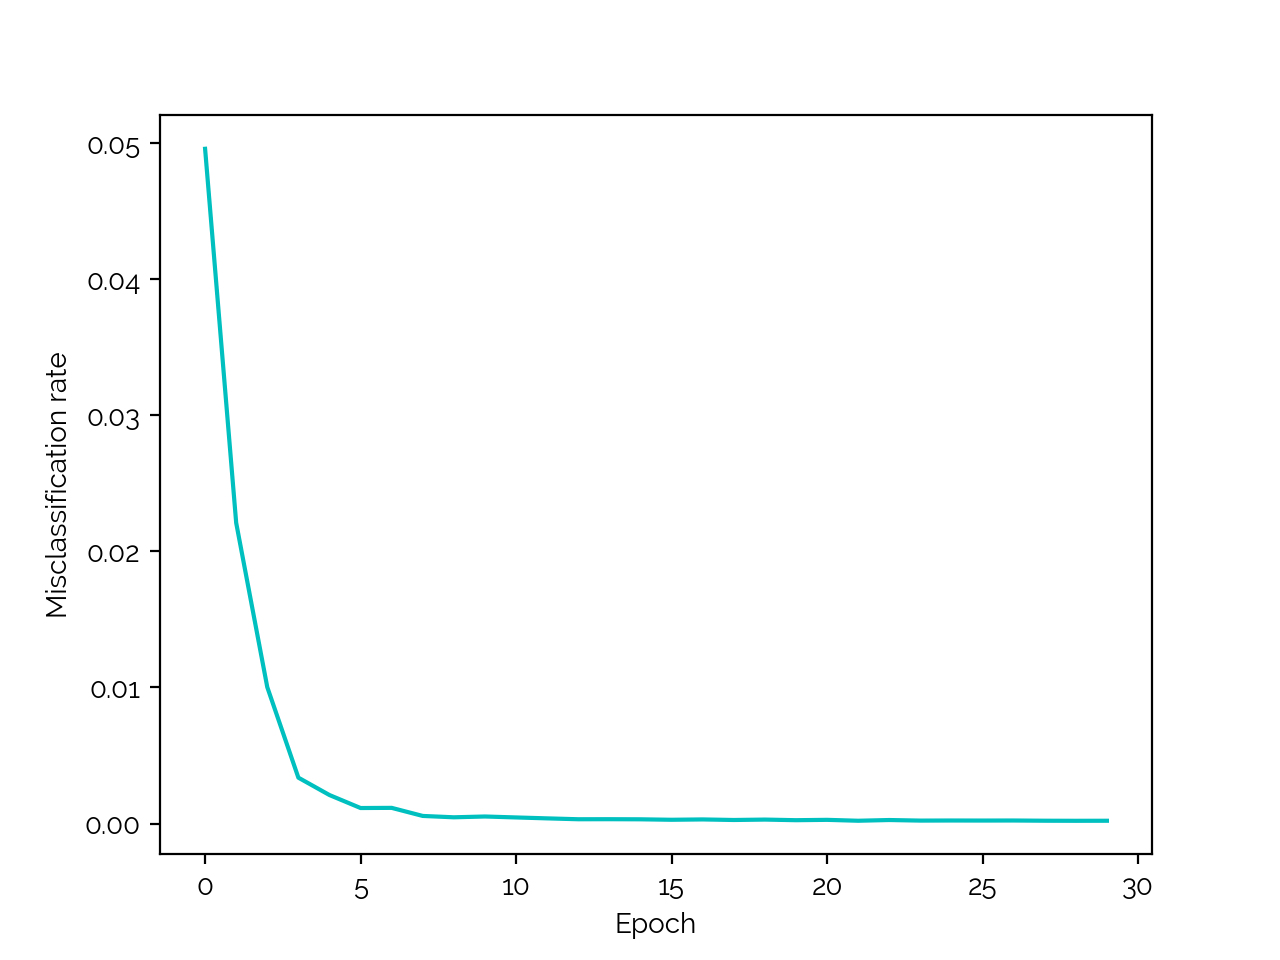
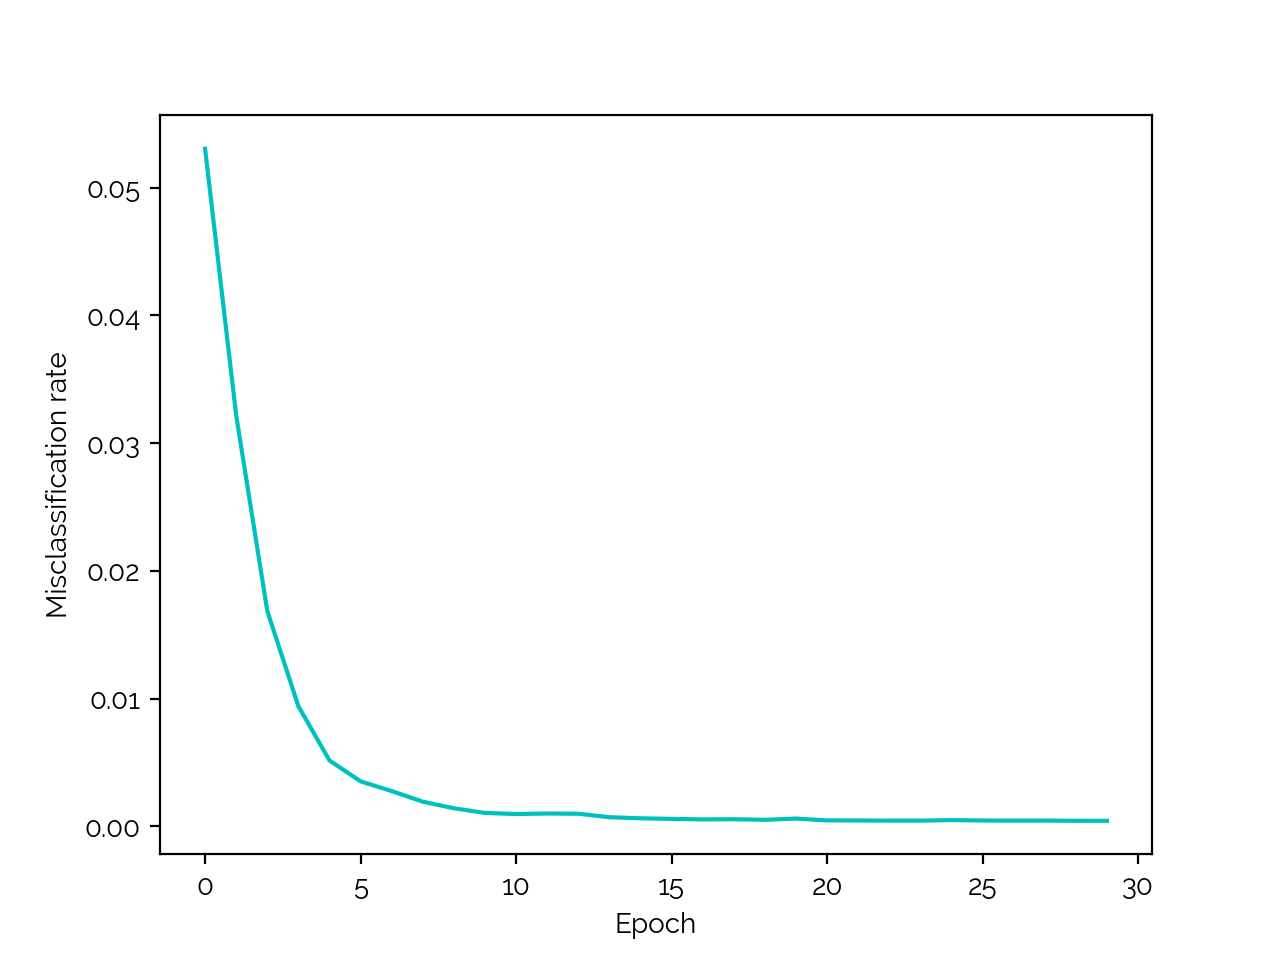
Add new plot.

diff --git a/qubo_nn/plots/gen_tot_mc_plot.py b/qubo_nn/plots/gen_tot_mc_plot.py
@@ -91,7 +91,7 @@ def aggregate(paths):
 
 
 def run():
-    plot = False
+    plot = True
     if not plot:
         # paths = glob.glob('../runs/*-18_lr2_leaky')
         paths = glob.glob('../runs/*-23')
